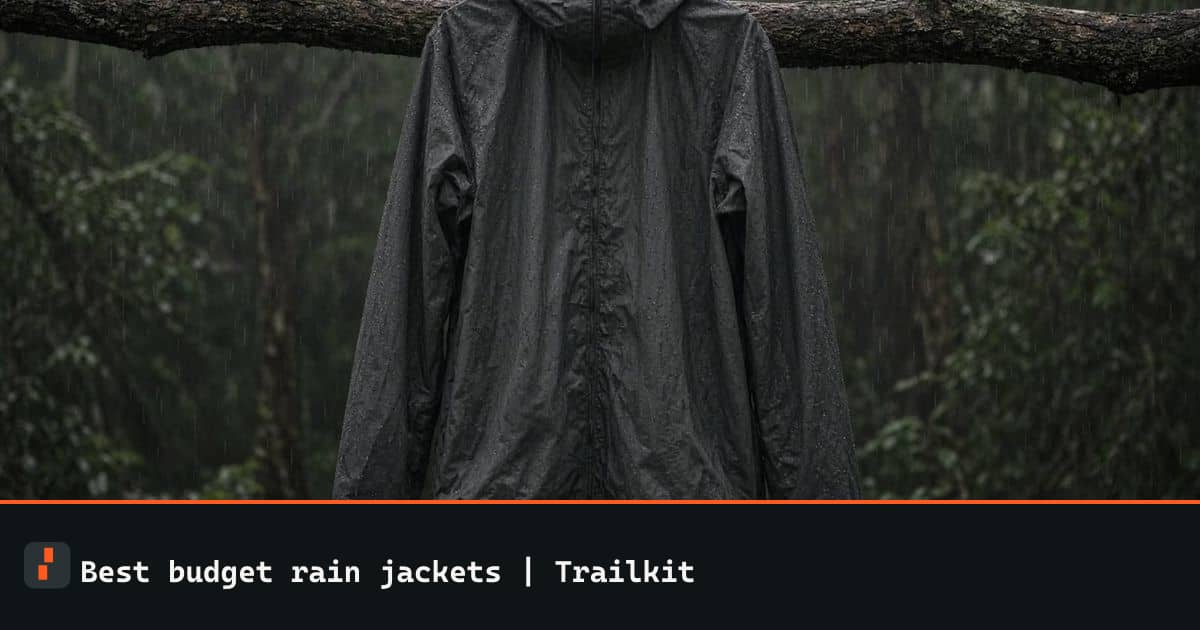
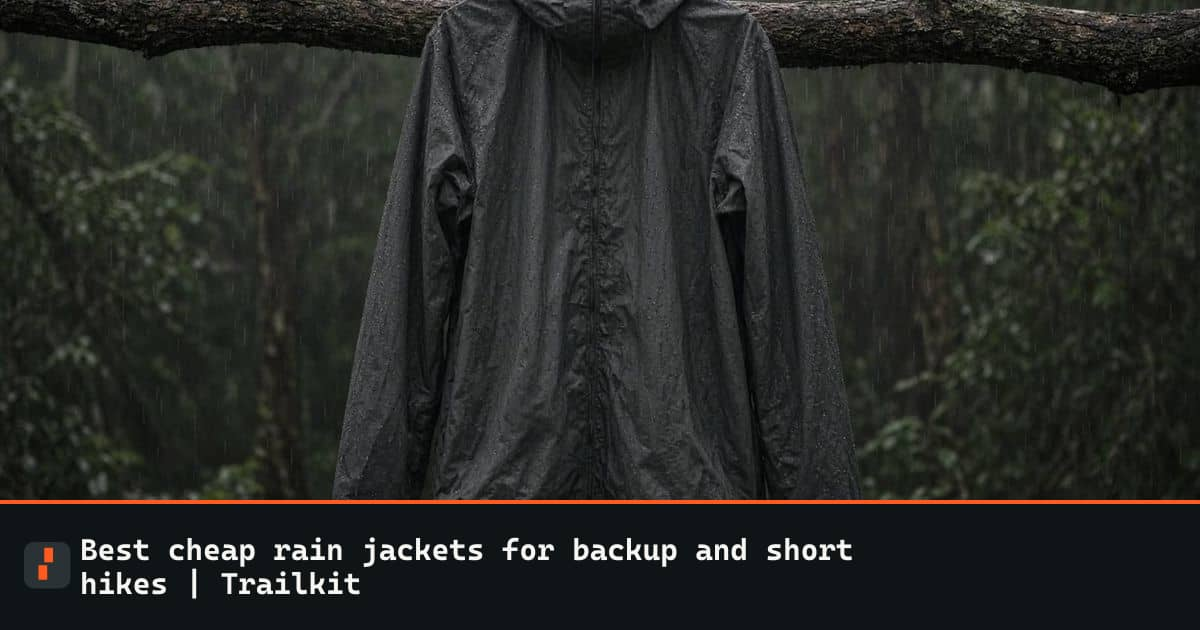
Give each overlapping best-of pair its own intent and one shared pick.

Changed region(s): [[0.0617, 0.8444, 0.7092, 0.9651]]

diff --git a/src/data/editorial.ts b/src/data/editorial.ts
@@ -7,14 +7,14 @@ export const roundups: Roundup[] = [
   {
     slug: "backpacking-tents",
     title: "Best Backpacking Tents",
-    description: "Best backpacking tents by pitch style: freestanding Copper Spur, trekking-pole X-Mid, wet-weather Dragonfly, and a livable first tent.",
+    description: "Best two-person backpacking tents by pitch style: freestanding Copper Spur, trekking-pole X-Mid, wet-weather Dragonfly, Hubba Hubba, and a livable first tent.",
     h1: "Best backpacking tents",
     kicker: "Roundup · Shelters",
     category: "tents",
     answer:
       "For most two-person trips, buy a freestanding double-wall tent if you camp on platforms or rock, and a trekking-pole tent if you already carry poles and can stake. The Big Agnes Copper Spur UL2 is the default freestanding pick. The Durston X-Mid 2 is the default trekking-pole pick. A first weekend under eight miles can honestly use the heavier Half Dome 2 Plus.",
     who: "Beginners who want a tent that stands before it is staked, and experienced hikers shaving weight on a two- to five-night route. Not a four-season mountaineering guide.",
-    productSlugs: ["copper-spur-ul2", "x-mid-2", "dragonfly-osmo-2", "half-dome-2-plus", "lunar-solo", "hubba-hubba-2"],
+    productSlugs: ["copper-spur-ul2", "x-mid-2", "dragonfly-osmo-2", "hubba-hubba-2", "tiger-wall-ul2", "half-dome-2-plus"],
     one: "Buy the Copper Spur UL2 if you want one tent that works on platforms and dirt. Buy the X-Mid 2 only if you already use trekking poles and will practice the pitch.",
     faqs: [
       { q: "Is a freestanding tent worth the weight?", a: "Yes on platforms, slabs, or sites where stakes fail. No if every camp is soft soil and you already carry poles." },
@@ -48,15 +48,15 @@ export const roundups: Roundup[] = [
   {
     slug: "budget-tents",
     title: "Best Budget Backpacking Tents",
-    description: "Budget backpacking tents that are still real shelters: Half Dome 2 Plus and Lunar Solo, and what not to cheap out on.",
+    description: "Budget backpacking tents in the Budget to Mid price bands: REI Half Dome 2 Plus, MSR Elixir 2, Six Moon Lunar Solo, and the REI Passage 2.",
     h1: "Best budget backpacking tents",
     kicker: "Roundup · Shelters",
     category: "tents",
     answer:
-      "Cheap out on a sit pad, not on a storm shelter. In this catalog the honest budget backpacking tents are the REI Half Dome 2 Plus for a first freestanding weekend and the Lunar Solo for a solo hiker who accepts single-wall condensation. A sub-$50 tent is a different object.",
-    who: "New campers spending carefully, and solo hikers who do not need a flagship freestanding tent.",
-    productSlugs: ["half-dome-2-plus", "lunar-solo", "hubba-hubba-2"],
-    one: "Buy the Half Dome 2 Plus if you are new. Buy the Lunar Solo only if you hike alone and will vent it.",
+      "Every pick here sits in the Budget to Mid price bands. The lighter Upper mid tents are on the main backpacking tents page. The REI Co-op Half Dome 2 Plus is the roomy first freestanding tent for short weekends. The MSR Elixir 2 is the simple freestanding alternative at about 5 lb. The Six Moon Designs Lunar Solo is the light budget pick for one hiker who accepts single-wall condensation. The REI Co-op Passage 2 is the cheapest real tent here, for first nights close to the car. Cheap out on a sit pad, not on a storm shelter.",
+    who: "New campers spending carefully, pairs who accept extra weight for a lower price, and solo hikers who do not need a flagship tent.",
+    productSlugs: ["half-dome-2-plus", "msr-elixir-2", "lunar-solo", "rei-passage-2"],
+    one: "Buy the Half Dome 2 Plus if you are new. Buy the Elixir 2 if you want a freestanding tent with a simple pitch. Buy the Lunar Solo only if you hike alone and will vent it.",
     faqs: [
       { q: "Are department-store tents fine?", a: "For a backyard or a fair-weather car camp, sometimes. For a windy backpacking night, buy a tent with a backpacking reputation." },
       { q: "Is heavier always cheaper?", a: "Often, and on a short weekend that is a good trade. On a long climb it is not." },
@@ -121,24 +121,24 @@ export const roundups: Roundup[] = [
       { q: "Boot or shoe?", a: "Shoe if the trail is moderate and your ankles are fine. Boot if you roll ankles or carry a heavy pack." },
       { q: "Is a wide toe box the same as 2E?", a: "No. A foot-shaped last can be wide at the toes and still narrow at the heel." },
     ],
-    related: ["trail-runners", "boot-fit", "rain-jackets-under-150"],
+    related: ["trail-shoes", "boot-fit", "rain-jackets-under-150"],
     method,
   },
   {
     slug: "trail-runners",
     title: "Best Trail Runners for Hiking",
-    description: "Trail runners that work as hiking shoes: Altra Lone Peak and Hoka Speedgoat, and when a boot is still the right call.",
+    description: "Trail runners and light hiking shoes for maintained trail: Hoka Speedgoat for cushion, La Sportiva Ultra Raptor for rock, and the Danner Trail 2650.",
     h1: "Best trail runners for hiking",
     kicker: "Roundup · Footwear",
     category: "footwear",
     answer:
-      "A trail runner is the right hike shoe on moderate trail if your ankles are stable. The Lone Peak is the wide, zero-drop answer. The Speedgoat is the max-cushion answer. Switch back to a boot when you roll ankles, carry a heavy pack, or walk off-trail on loose rock.",
+      "A trail runner is the right hiking shoe on moderate trail if your ankles are stable. The Hoka Speedgoat is the max-cushion pick for long days. The La Sportiva Ultra Raptor is the pick for rocky trail and a heel that holds. The Danner Trail 2650 is the low hiking shoe for day hikes and travel days. Switch back to a boot when you roll ankles, carry a heavy pack, or walk off-trail on loose rock.",
     who: "Day hikers and light overnight hikers on maintained trail.",
-    productSlugs: ["lone-peak", "speedgoat", "targhee-iv"],
-    one: "Buy the Lone Peak if your toes need room. Buy the Speedgoat if your knees want cushion. Keep a boot if you are unsure about your ankles.",
+    productSlugs: ["speedgoat", "ultra-raptor", "trail-2650"],
+    one: "Buy the Speedgoat if your knees want cushion. Buy the Ultra Raptor if the trail is rocky and your feet are medium to narrow. Keep a boot if you are unsure about your ankles.",
     faqs: [
       { q: "Are trail runners waterproof?", a: "Most are not, and that is often better. A soaked membrane shoe dries slowly. Use gaiters and wool socks in puddles." },
-      { q: "How long is zero-drop break-in?", a: "Two or three easy weeks. Do not start on a long descent." },
+      { q: "Are trail runners enough for backpacking?", a: "For many people, yes, under a moderate pack on maintained trail." },
     ],
     related: ["hiking-boots-wide-feet", "daypacks"],
     method,
@@ -204,22 +204,22 @@ export const roundups: Roundup[] = [
   },
   {
     slug: "camping-stoves",
-    title: "Best Camping Stoves",
-    description: "Best camping stoves: Soto WindMaster, PocketRocket, Jetboil, liquid fuel, a cheap backup, and a two-burner.",
+    title: "Best Camping Stoves by Trip Type",
+    description: "Camping stoves by trip: a Coleman two-burner for car camping, the WhisperLite for cold, MiniMo and Reactor boil systems, and the WindMaster for backpacking.",
     h1: "Best camping stoves",
     kicker: "Roundup · Kitchen",
     category: "stoves",
     answer:
-      "For backpacking, a wind-aware canister stove beats an integrated system unless you only boil water. The Soto WindMaster is the default. The Jetboil MiniMo is the boil-and-eat system. For car camping, ignore ounces and use a two-burner. Never run a stove in a tent.",
-    who: "Backpackers cooking for one or two, and car campers who need the split between trail and camp stoves.",
-    productSlugs: ["windmaster", "pocketrocket", "minimo", "brs-3000", "whisperlite", "coleman-2burner"],
-    one: "Buy the WindMaster and a simple pot if you backpack. Buy a two-burner if you only car camp.",
+      "Pick the stove by the trip. At a drive-up site, a two-burner such as the Coleman is the right tool, and ounces do not matter. For three-season backpacking, a canister stove such as the Soto WindMaster is the default. For cold trips or uncertain canister supply, the MSR WhisperLite runs on liquid fuel. If dinner is only boiling water, use an integrated system: the Jetboil MiniMo for coffee and freezer-bag meals, or the MSR Reactor for wind and cold. Never run a stove in a tent.",
+    who: "Campers deciding which kind of stove fits the trip: car camping, cold weather, or boil-only meals.",
+    productSlugs: ["coleman-2burner", "windmaster", "whisperlite", "minimo", "msr-reactor"],
+    one: "Buy a two-burner if you only car camp. Buy the WindMaster and a simple pot if you backpack in three seasons. Buy the WhisperLite only if you camp in the cold or travel where canisters are hard to find.",
     faqs: [
       { q: "Canister or liquid?", a: "Canister for three-season convenience. Liquid fuel for cold and uncertain supply." },
-      { q: "Is a windscreen safe?", a: "Only the one the stove maker allows. Trapping heat against a canister can be dangerous." },
-      { q: "How much fuel for a weekend?", a: "About one small canister for two people boiling twice a day. Real cooking uses more." },
+      { q: "Can I use a backpacking stove for car camping?", a: "For one or two people boiling water, yes. For group breakfasts, a two-burner is the better tool." },
+      { q: "Is an integrated system worth the weight?", a: "If you only boil water, often yes. If you cook real meals, a separate stove and pot is more flexible." },
     ],
-    related: ["car-camping-kitchen", "budget-under-50", "canister-vs-liquid"],
+    related: ["car-camping-kitchen", "canister-vs-liquid", "stove-safety"],
     method,
   },
   {
@@ -335,7 +335,7 @@ export const roundups: Roundup[] = [
       { q: "What should I never cheap out on?", a: "Shelter in bad weather, a sleep system for the real temperature, and footwear." },
       { q: "Is a $50 sleeping bag enough?", a: "For a warm summer car camp, maybe. For backpacking near freezing, no." },
     ],
-    related: ["camping-stoves", "budget-tents", "car-camping-kitchen"],
+    related: ["canister-stoves-picks", "budget-tents", "car-camping-kitchen"],
     method,
   },
   {
@@ -947,7 +947,7 @@ export const compares: Compare[] = [
     faqs: [
       { q: "Can I backpack in Lone Peaks?", a: "Many people do, on moderate trail, with a pack that is not huge. It is a bad idea if you roll ankles." },
     ],
-    related: ["hiking-boots-wide-feet", "boot-fit"],
+    related: ["hiking-boots-wide-feet", "trail-shoes", "boot-fit"],
   },
   {
     slug: "windmaster-vs-pocketrocket",
@@ -970,7 +970,7 @@ export const compares: Compare[] = [
     faqs: [
       { q: "Which boils faster?", a: "In a breeze, the WindMaster, because it stays lit. In a kitchen, the difference is not why you are buying." },
     ],
-    related: ["camping-stoves", "canister-vs-liquid"],
+    related: ["canister-stoves-picks", "canister-vs-liquid"],
   },
   {
     slug: "sawyer-vs-katadyn",

diff --git a/src/data/expansion/pages.ts b/src/data/expansion/pages.ts
@@ -327,7 +327,7 @@ export const extraRoundups: Roundup[] = [
       }
     ],
     "related": [
-      "camping-stoves",
+      "canister-stoves-picks",
       "canister-vs-liquid",
       "car-camping-kitchen"
     ],
@@ -446,12 +446,12 @@ export const extraRoundups: Roundup[] = [
   },
   {
     "slug": "canister-stoves-picks",
-    "title": "Canister stoves by job",
-    "description": "Canister stoves sorted by job: WindMaster in wind, Amicus when you simmer, Jetboil when you only boil.",
-    "h1": "Canister stoves by job",
+    "title": "Best Canister Stoves for Backpacking",
+    "description": "Canister stoves for backpacking, sorted by job: WindMaster in wind, Amicus when you simmer, Jetboil Flash when you only boil, plus PocketRocket and BRS-3000T.",
+    "h1": "Best canister stoves for backpacking",
     "kicker": "Roundup · Stoves",
     "category": "stoves",
-    "answer": "Buy a Soto WindMaster if your sites are breezy and you still want a small stove. Buy a Soto Amicus if you simmer. Buy a Jetboil Flash if dinner is only boiling water. A PocketRocket is the calm-weather classic. A BRS-3000T is a backup, not a group stove.",
+    "answer": "For three-season backpacking, buy a Soto WindMaster if your sites are breezy and you still want a small stove. Buy a Soto Amicus if you simmer. Buy a Jetboil Flash if dinner is only boiling water. A PocketRocket Deluxe is the calm-weather classic. A BRS-3000T is a backup, not a group stove.",
     "who": "Three-season hikers using canisters. Not deep cold, where liquid fuel is the more honest tool.",
     "productSlugs": [
       "windmaster",
@@ -484,29 +484,27 @@ export const extraRoundups: Roundup[] = [
   },
   {
     "slug": "budget-rain-shells",
-    "title": "Cheap backup rain shells",
-    "description": "Cheap backup rain shells next to a real hiking jacket: REI Rainier, Marmot Precip, Columbia, and a Frogg Toggs spare.",
-    "h1": "Cheap backup rain shells",
+    "title": "Best Cheap Rain Jackets for Backup and Short Hikes",
+    "description": "Cheap rain jackets for the car, the day pack, and short hikes: Columbia Watertight II, a Frogg Toggs Ultra-Lite spare, and the Marmot PreCip Eco.",
+    "h1": "Best cheap rain jackets for backup and short hikes",
     "kicker": "Roundup · Rain",
     "category": "shells",
-    "answer": "Under a modest budget, buy a shell with a hood you can turn your head in. The REI Rainier and Marmot Precip are the usual hiking answers. A Columbia Watertight is fine for short trips. A Frogg Toggs is an emergency layer, not the jacket you hike in all week.",
-    "who": "Hikers who need rain gear before they need a premium membrane.",
+    "answer": "If you need a rain layer for short hikes, the car, or a spare in the day pack, a budget jacket does the job. The Columbia Watertight II is the everyday cheap jacket for commuter rain and short hikes. The Frogg Toggs Ultra-Lite is the emergency spare: about 10 oz, cheap, and not built to be lived in. The Marmot PreCip Eco is the step up if the cheap jacket will also see real trail. For a jacket you hike in all day, use the under-$150 page.",
+    "who": "Day hikers who want a spare in the pack or the car, and anyone who needs a basic rain jacket for short trips. Not a shell for a week of steady rain.",
     "productSlugs": [
-      "rainier",
-      "precip",
       "columbia-watertight",
       "frogg-toggs",
-      "torrentshell"
+      "precip"
     ],
-    "one": "Buy the Rainier or the Precip as the jacket you will actually hike in. Throw Frogg Toggs in the car as the spare.",
+    "one": "Buy the Columbia Watertight II if you want one cheap jacket for town and short hikes. Keep a Frogg Toggs in the car or the day pack as the spare.",
     "faqs": [
       {
         "q": "Will a cheap shell wet out?",
         "a": "Yes, sooner. That is DWR failure, not always a leak. Re-proof it, and move up when you live in rain."
       },
       {
-        "q": "Do I need pit zips?",
-        "a": "If you climb in weather, they matter more than a logo. Budget shells often skip them."
+        "q": "Can an emergency shell be my only rain jacket?",
+        "a": "On a short day hike close to the trailhead, yes. On an overnight or a long wet day, carry a jacket you can hike in."
       },
       {
         "q": "Is a shell insulation?",
@@ -515,31 +513,30 @@ export const extraRoundups: Roundup[] = [
     ],
     "related": [
       "rain-jackets-under-150",
-      "helium-vs-rainier",
-      "layering"
+      "dwr",
+      "day-hike"
     ],
     "method": "Picks are chosen for how you will use them, not by a private lab score. Weights and ratings are the manufacturer’s published figures and can change with the model year. Prices are not listed. Open the current listing before you buy."
   },
   {
     "slug": "trail-shoes",
-    "title": "Best wide toe box trail shoes",
-    "description": "Wide toe box trail shoes when a boot is too much: Topo Ultraventure, Altra Lone Peak, and Hoka Speedgoat.",
+    "title": "Best Wide Toe Box Trail Shoes for Hiking",
+    "description": "Wide toe box trail shoes for hiking: Topo Ultraventure, Altra Lone Peak, and the wide Hoka Speedgoat, for toes that rub in a standard shoe.",
     "h1": "Best wide toe box trail shoes",
     "kicker": "Roundup · Footwear",
     "category": "footwear",
-    "answer": "Use a trail shoe when your ankles are stable and the pack is moderate. The Topo Ultraventure is the roomy, cushioned default that is not zero-drop. The Altra Lone Peak is the wide zero-drop shoe. The Hoka Speedgoat is the cushioned shoe with a more standard toe.",
-    "who": "Day hikers and light-pack backpackers. Not a heavy pack on loose talus if your ankles roll.",
+    "answer": "If your toes are the problem, buy a trail shoe with a wide or foot-shaped toe box, not a longer size. The Topo Athletic Ultraventure is the roomy, cushioned default that is not zero-drop. The Altra Lone Peak is the foot-shaped, zero-drop shoe, and it needs a break-in period. The Hoka Speedgoat comes in a wide version if you want max cushion with more room than the standard toe.",
+    "who": "Hikers whose toes rub or go numb in standard trail shoes, on moderate trail with a light pack. Not a heavy pack on loose talus if your ankles roll.",
     "productSlugs": [
       "topo-ultraventure",
       "lone-peak",
-      "speedgoat",
-      "trail-2650"
+      "speedgoat"
     ],
     "one": "If you want width without a zero-drop transition, buy the Ultraventure. If you already like zero drop and a wide toe, stay with the Lone Peak.",
     "faqs": [
       {
-        "q": "Are trail runners enough for backpacking?",
-        "a": "For many people, yes, under a moderate pack on maintained trail."
+        "q": "Is the Speedgoat a wide shoe?",
+        "a": "The standard Speedgoat has a more standard toe. Hoka also makes a wide version, and that is the one this page means."
       },
       {
         "q": "What if my ankles roll?",
@@ -1329,7 +1326,7 @@ export const extraGuides: Guide[] = [
     "related": [
       "how-much-water",
       "water-carry",
-      "trail-shoes"
+      "trail-runners"
     ]
   },
   {

diff --git a/src/data/hubs.ts b/src/data/hubs.ts
@@ -82,34 +82,44 @@ export const LEARN_SECTIONS: { id: string; label: string; slugs: string[] }[] = 
 ];
 
 export const INTENT_PAIRS: Record<string, { href: string; label: string; note: string }> = {
-  "trail-shoes": {
-    href: "/best/trail-runners",
-    label: "Best trail runners for hiking",
-    note: "This page is the wide toe-box cut. The other list is the general trail-runner roundup.",
+  "backpacking-tents": {
+    href: "/best/budget-tents",
+    label: "Best budget backpacking tents",
+    note: "If price comes first, the budget page keeps every pick in the Budget to Mid price bands.",
   },
-  "trail-runners": {
-    href: "/best/trail-shoes",
-    label: "Best wide toe box trail shoes",
-    note: "If the toe box is the constraint, use the wide toe-box page instead of this general list.",
+  "budget-tents": {
+    href: "/best/backpacking-tents",
+    label: "Best backpacking tents",
+    note: "If weight or wet-weather performance matters more than price, the main page has the lighter Upper mid tents.",
   },
-  "canister-stoves-picks": {
-    href: "/best/camping-stoves",
-    label: "Best camping stoves",
-    note: "This page sorts canister stoves by job. The camping-stoves roundup includes liquid fuel and car-camp burners.",
-  },
-  "camping-stoves": {
-    href: "/best/canister-stoves-picks",
-    label: "Canister stoves by job",
-    note: "If you already know you want a canister, the by-job page is the shorter list.",
+  "rain-jackets-under-150": {
+    href: "/best/budget-rain-shells",
+    label: "Best cheap rain jackets for backup and short hikes",
+    note: "If you only need a spare for the car or a cheap jacket for short hikes, use the backup page.",
   },
   "budget-rain-shells": {
     href: "/best/rain-jackets-under-150",
     label: "Best rain jackets under $150",
-    note: "These are the cheaper backups. The under-$150 page is the jacket you hike in.",
+    note: "These are spares and short-trip jackets. For a jacket you hike in all day, use the under-$150 page.",
   },
-  "rain-jackets-under-150": {
-    href: "/best/budget-rain-shells",
-    label: "Cheap backup rain shells",
-    note: "A spare emergency shell lives on the backup page, not in this under-$150 list.",
+  "trail-runners": {
+    href: "/best/trail-shoes",
+    label: "Best wide toe box trail shoes",
+    note: "If your toes need room, the wide toe-box page covers the Altra Lone Peak and the Topo Ultraventure.",
+  },
+  "trail-shoes": {
+    href: "/best/trail-runners",
+    label: "Best trail runners for hiking",
+    note: "This page is only for wide and foot-shaped toe boxes. For cushion, rocky trail, or a low hiking shoe, use the general list.",
+  },
+  "camping-stoves": {
+    href: "/best/canister-stoves-picks",
+    label: "Best canister stoves for backpacking",
+    note: "If you backpack in three seasons and already know you want a canister stove, use the backpacking page.",
+  },
+  "canister-stoves-picks": {
+    href: "/best/camping-stoves",
+    label: "Best camping stoves",
+    note: "This page covers light canister stoves for backpacking. For car camping, liquid fuel in the cold, or a boil system, use the camping stoves page.",
   },
 };

diff --git a/src/data/images.ts b/src/data/images.ts
@@ -1016,7 +1016,7 @@ export const IMAGES: TkImageMeta[] = [
     "focal": "center 40%",
     "hub": "best",
     "label": "Roundup · Stoves",
-    "title": "Best canister camping stoves",
+    "title": "Best canister stoves for backpacking",
     "ready": true,
     "srcset": true,
     "widths": [
@@ -1041,7 +1041,7 @@ export const IMAGES: TkImageMeta[] = [
     "focal": "center 40%",
     "hub": "best",
     "label": "Roundup · Rain",
-    "title": "Best budget rain jackets",
+    "title": "Best cheap rain jackets for backup and short hikes",
     "ready": true,
     "srcset": true,
     "widths": [
@@ -1066,7 +1066,7 @@ export const IMAGES: TkImageMeta[] = [
     "focal": "center 40%",
     "hub": "best",
     "label": "Roundup · Footwear",
-    "title": "Best trail runners for hiking",
+    "title": "Best wide toe box trail shoes",
     "ready": true,
     "srcset": true,
     "widths": [

diff --git a/src/data/expansion/gen_pages.py b/src/data/expansion/gen_pages.py
@@ -125,7 +125,7 @@ roundups = [
       [("Is titanium worth it?","For one person counting grams, yes. For a pair, aluminum is kinder and cheaper."),
        ("Do I need a plate?","Usually no. Eat from the pot or the pouch."),
        ("What about a cozy?","A cozy saves fuel after the water boils. It is a square of insulation, not a second pot.")],
-      ["camping-stoves","canister-vs-liquid","car-camping-kitchen"]),
+      ["canister-stoves-picks","canister-vs-liquid","car-camping-kitchen"]),
     R("microspikes","Best Microspikes","Traction for icy trail: Kahtoola Microspikes, and when to leave Yaktrax in the car.","Best microspikes","Roundup · Traction","traction",
       "For icy packed trail, buy Kahtoola MICROspikes in the size of the shoe you will actually wear. Hillsound Trail Crampons are the more aggressive option for longer firm-snow approaches. Yaktrax are for sidewalks. None of these are mountaineering crampons.",
       "Hikers on spring and fall trails that ice up. Not steep alpine ice.",
@@ -153,8 +153,8 @@ roundups = [
        ("Is a waterproof pack necessary?","In sustained rain it is nice. A liner still belongs inside any pack."),
        ("Can I use one for a first overnight?","You can, and you will probably overload it. Buy the Flash or the Crown first.")],
       ["backpacking-packs","light-and-dry","pack-fit"]),
-    R("canister-stoves-picks","Best Canister Stoves","Canister stoves by job: WindMaster in wind, Amicus when you simmer, Jetboil when you only boil.","Best canister camping stoves","Roundup · Stoves","stoves",
-      "Buy a Soto WindMaster if your sites are breezy and you still want a small stove. Buy a Soto Amicus if you simmer. Buy a Jetboil Flash if dinner is only boiling water. A PocketRocket is the calm-weather classic. A BRS-3000T is a backup, not a group stove.",
+    R("canister-stoves-picks","Best Canister Stoves for Backpacking","Canister stoves for backpacking, sorted by job: WindMaster in wind, Amicus when you simmer, Jetboil Flash when you only boil, plus PocketRocket and BRS-3000T.","Best canister stoves for backpacking","Roundup · Stoves","stoves",
+      "For three-season backpacking, buy a Soto WindMaster if your sites are breezy and you still want a small stove. Buy a Soto Amicus if you simmer. Buy a Jetboil Flash if dinner is only boiling water. A PocketRocket Deluxe is the calm-weather classic. A BRS-3000T is a backup, not a group stove.",
       "Three-season hikers using canisters. Not deep cold, where liquid fuel is the more honest tool.",
       ["windmaster","soto-amicus","jetboil-flash","pocketrocket","brs-3000"],
       "One stove: the WindMaster, unless you know your camps are sheltered and you want the PocketRocket's simplicity.",
@@ -162,21 +162,21 @@ roundups = [
        ("Do I need a windscreen?","Only one the stove maker allows. Trapping heat against a canister is how cheap setups fail."),
        ("How much fuel for a weekend?","One small canister is a lot of boils for two and not a week of real cooking.")],
       ["camping-stoves","canister-vs-liquid","windmaster-vs-pocketrocket"]),
-    R("budget-rain-shells","Best Budget Rain Jackets","Budget rain shells: REI Rainier, Marmot Precip, Columbia, and a Frogg Toggs backup.","Best budget rain jackets","Roundup · Rain","shells",
-      "Under a modest budget, buy a shell with a hood you can turn your head in. The REI Rainier and Marmot Precip are the usual hiking answers. A Columbia Watertight is fine for short trips. A Frogg Toggs is an emergency layer, not the jacket you hike in all week.",
-      "Hikers who need rain gear before they need a premium membrane.",
-      ["rainier","precip","columbia-watertight","frogg-toggs","torrentshell"],
-      "Buy the Rainier or the Precip as the jacket you will actually hike in. Throw Frogg Toggs in the car as the spare.",
+    R("budget-rain-shells","Best Cheap Rain Jackets for Backup and Short Hikes","Cheap rain jackets for the car, the day pack, and short hikes: Columbia Watertight II, a Frogg Toggs Ultra-Lite spare, and the Marmot PreCip Eco.","Best cheap rain jackets for backup and short hikes","Roundup · Rain","shells",
+      "If you need a rain layer for short hikes, the car, or a spare in the day pack, a budget jacket does the job. The Columbia Watertight II is the everyday cheap jacket for commuter rain and short hikes. The Frogg Toggs Ultra-Lite is the emergency spare: about 10 oz, cheap, and not built to be lived in. The Marmot PreCip Eco is the step up if the cheap jacket will also see real trail. For a jacket you hike in all day, use the under-$150 page.",
+      "Day hikers who want a spare in the pack or the car, and anyone who needs a basic rain jacket for short trips. Not a shell for a week of steady rain.",
+      ["columbia-watertight","frogg-toggs","precip"],
+      "Buy the Columbia Watertight II if you want one cheap jacket for town and short hikes. Keep a Frogg Toggs in the car or the day pack as the spare.",
       [("Will a cheap shell wet out?","Yes, sooner. That is DWR failure, not always a leak. Re-proof it, and move up when you live in rain."),
-       ("Do I need pit zips?","If you climb in weather, they matter more than a logo. Budget shells often skip them."),
+       ("Can an emergency shell be my only rain jacket?","On a short day hike close to the trailhead, yes. On an overnight or a long wet day, carry a jacket you can hike in."),
        ("Is a shell insulation?","No. Wear a fleece under it.")],
-      ["rain-jackets-under-150","helium-vs-rainier","layering"]),
-    R("trail-shoes","Best Trail Runners for Hiking","Trail shoes when a boot is too much: Topo Ultraventure, Altra Lone Peak, Hoka Speedgoat.","Best trail runners for hiking","Roundup · Footwear","footwear",
-      "Use a trail shoe when your ankles are stable and the pack is moderate. The Topo Ultraventure is the roomy, cushioned default that is not zero-drop. The Altra Lone Peak is the wide zero-drop shoe. The Hoka Speedgoat is the cushioned shoe with a more standard toe.",
-      "Day hikers and light-pack backpackers. Not a heavy pack on loose talus if your ankles roll.",
-      ["topo-ultraventure","lone-peak","speedgoat","trail-2650"],
+      ["rain-jackets-under-150","dwr","day-hike"]),
+    R("trail-shoes","Best Wide Toe Box Trail Shoes for Hiking","Wide toe box trail shoes for hiking: Topo Ultraventure, Altra Lone Peak, and the wide Hoka Speedgoat, for toes that rub in a standard shoe.","Best wide toe box trail shoes","Roundup · Footwear","footwear",
+      "If your toes are the problem, buy a trail shoe with a wide or foot-shaped toe box, not a longer size. The Topo Athletic Ultraventure is the roomy, cushioned default that is not zero-drop. The Altra Lone Peak is the foot-shaped, zero-drop shoe, and it needs a break-in period. The Hoka Speedgoat comes in a wide version if you want max cushion with more room than the standard toe.",
+      "Hikers whose toes rub or go numb in standard trail shoes, on moderate trail with a light pack. Not a heavy pack on loose talus if your ankles roll.",
+      ["topo-ultraventure","lone-peak","speedgoat"],
       "If you want width without a zero-drop transition, buy the Ultraventure. If you already like zero drop and a wide toe, stay with the Lone Peak.",
-      [("Are trail runners enough for backpacking?","For many people, yes, under a moderate pack on maintained trail."),
+      [("Is the Speedgoat a wide shoe?","The standard Speedgoat has a more standard toe. Hoka also makes a wide version, and that is the one this page means."),
        ("What if my ankles roll?","A boot. Do not argue with a sprain."),
        ("How long is the break-in?","Zero drop wants easy weeks. A familiar drop can go on a normal day sooner.")],
       ["trail-runners","hiking-boots-wide-feet","boot-fit"]),
@@ -319,7 +319,7 @@ guides = [
       [("How many liters per mile?","It varies with heat, load, and the person. Test on a hot day hike before a remote route."),
        ("Can I filter sand?","Settle it first or you will clog the filter. Carry a backup."),
        ("Is a phone map enough?","Only if it is downloaded and you still have a paper or GPS backup for the water points.")],
-      ["how-much-water","water-carry","trail-shoes"]),
+      ["how-much-water","water-carry","trail-runners"]),
     G("cathole","How to Dig a Cathole","Distance, depth, and the places that want a wag bag instead.","How to dig a cathole","Guide · Camp",
       "Where catholes are allowed, dig a hole about six to eight inches deep, at least 200 feet from water, camp, and trail. Cover it. Pack out toilet paper if the rules say so. Some deserts and alpine zones want a wag bag instead.",
       [sec("where","Pick the spot",["Walk away from water, trails, and camp. Downslope from water is not away. A view is not a reason.","If the ground will not take a hole, you are in wag-bag country or you need a different spot."]),
